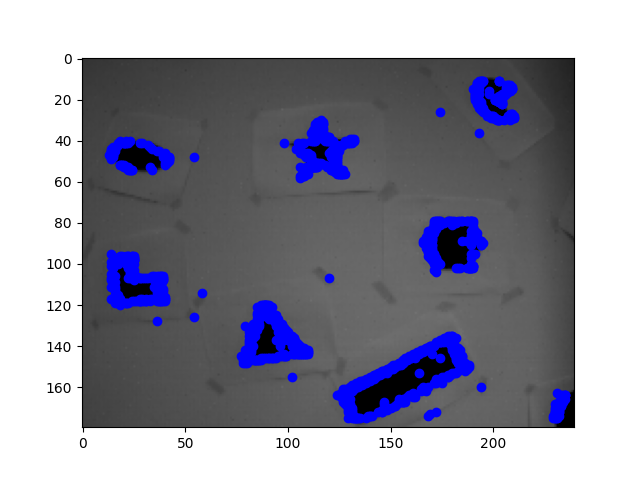
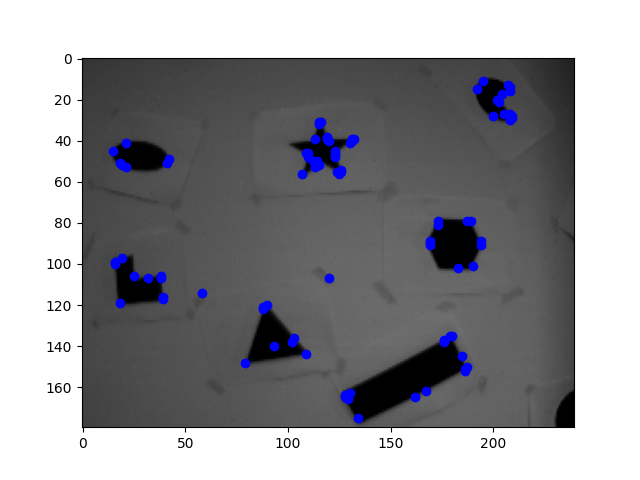
tracker updated

diff --git a/arc_tracker.py b/arc_tracker.py
@@ -1,141 +1,174 @@
 import numpy as np
+class Vertex:
+    def __init__(self, event):
+        self.event = event
+        self.depth = 0
+        self.treeid = None
+        self.parent = None
+        self.is_active = True
+        self.children = []
 
+    def deactivate(self):
+        self.is_active = False
+    
+
+class Tree:
+    def __init__(self,id,root):
+        self.id = id
+        self.max_depth = 0
+        self.root = root
+
+    def add_child(self, child,p):
+        child.parent = p
+        child.depth = p.depth + 1
+        if child.depth > self.max_depth:
+            self.max_depth = child.depth
+        child.treeid = self.id
+        p.children.append(child)
+        return
+    
 class EventTracker:
     def __init__(self, dconn=5, delta_t_max=0.1, rho_thresh=5):
         self.dconn = dconn
         self.delta_t_max = delta_t_max
         self.rho_thresh = rho_thresh
+        self.treenum = 0
         self.graph = {}  # Initialize the graph as an empty dictionary
+        self.vneigh = []
 
-    def add_corner_event(self, event):
-        t, x, y = event
-
+    def add_corner_event(self,event):
+        v = Vertex(event)
         # Find neighboring vertices within dconn pixels and delta_t_max time difference
-        Vneigh = self.find_neighboring_vertices(event)
+        self.vneigh = []
+        self.find_neighboring_vertices(v)
+        self.deactivate_vertices()
 
         # Split vertices into leaf and non-leaf nodes
-        Vleaf, Vnotleaf = self.split_leaf_and_notleaf_vertices(Vneigh)
+        Vleaf, Vnotleaf = self.split_leaf_and_notleaf_vertices()
+        print(Vleaf)
+        print(Vnotleaf)
 
-        if Vleaf:
+        if len(Vleaf):
             # Find the closest and newest vertex in Vleaf
-            vparent = self.find_closest_and_newest_vertex(Vleaf)
-        elif Vnotleaf:
+            vparent = self.find_closest_and_newest_vertex(Vleaf,v)
+        elif len(Vnotleaf):
             # Find the closest and newest vertex in Vnotleaf
-            vparent = self.find_closest_and_newest_vertex(Vnotleaf)
+            vparent = self.find_closest_and_newest_vertex(Vnotleaf,v)
         else:
             # No active vertices in the neighborhood, create a new tree
-            self.graph[t] = [event]
+            tree = Tree(self.treenum,v)
+            v.treeid = self.treenum
+            self.treenum += 1
+            self.graph[tree.id] = tree
             return
 
         # Establish data association and grow the tree
-        self.establish_data_association(vparent, event)
+        self.establish_data_association(vparent, v)
 
-    def find_neighboring_vertices(self, event):
-        t, x, y = event
-        Vneigh = []
+    def find_neighboring_vertices(self, new_vertex):
+        # key will be the id of the tree
+        for key,tree in self.graph.items():
+            p = tree.root
+            if (len(p.children) == 0) and self.is_valid_neighboor(p,new_vertex):
+                self.vneigh.append(p)
+            else:
+                self.traverse_and_append_neighboor(p,new_vertex)
+            
+        return
 
-        for v in self.graph.values():
-            for vertex in v:
-                tt, xx, yy = vertex
+    def is_valid_neighboor(self,vertex,new_vertex):
+        tt, xx, yy = vertex.event[0], vertex.event[1], vertex.event[2]
+        t, x, y = new_vertex.event[0], new_vertex.event[1], new_vertex.event[2]
+        if (abs(x - xx) <= self.dconn and 
+            abs(y - yy) <= self.dconn and 
+            abs(t - tt) <= self.delta_t_max):
+            return True
+        return False
+    
+    def traverse_and_append_neighboor(self,root,new_vertex):
+        
+        if(len(root.children)):
+            for child in root.children:
+                self.traverse_and_append_neighboor(child,new_vertex)
                 # Check proximity in space and time
-                if (
-                    abs(x - xx) <= self.dconn
-                    and abs(y - yy) <= self.dconn
-                    and abs(t - tt) <= self.delta_t_max
-                ):
-                    Vneigh.append(vertex)
+                if self.is_valid_neighboor(child,new_vertex):
 
-        return Vneigh
-
-    def split_leaf_and_notleaf_vertices(self, Vneigh):
+                    self.vneigh.append(child)
+            return
+        else:
+            return
+        
+    def split_leaf_and_notleaf_vertices(self):
         Vleaf = []
         Vnotleaf = []
 
-        for vertex in Vneigh:
-            t, x, y = vertex
+        for vertex in self.vneigh:
             if self.is_leaf_vertex(vertex):
                 Vleaf.append(vertex)
             else:
                 Vnotleaf.append(vertex)
 
         return Vleaf, Vnotleaf
-
+    
     def is_leaf_vertex(self, vertex):
-        t, x, y = vertex
-
-        for v in self.graph.values():
-            for v_event in v:
-                tt, xx, yy = v_event
-                # Check if vertex is older than any other vertex in the tree
-                if t > tt:
-                    return False
-
+        if len(vertex.children):
+            return False
         return True
-
-    def find_closest_and_newest_vertex(self, vertices):
+                
+    def find_closest_and_newest_vertex(self, vertices,new_vertex):
         min_distance = float("inf")
+        closest_t = 0
+        new_e = new_vertex.event
         closest_vertex = None
 
         for vertex in vertices:
-            t, x, y = vertex
-            distance = x ** 2 + y ** 2  # Euclidean distance in image plane
-            if distance < min_distance or (distance == min_distance and t > closest_vertex[0]):
+            e = vertex.event
+            distance = (e[1] - new_e[1]) ** 2 + (e[2] - new_e[2]) ** 2
+            if distance < min_distance or ((distance == min_distance) and (e[0] > closest_t)):
+                closest_t = e[0]
                 min_distance = distance
                 closest_vertex = vertex
 
         return closest_vertex
-
-    def establish_data_association(self, vparent, event):
-        t_parent, x_parent, y_parent = vparent
-        t_event, x_event, y_event = event
-
+    
+    def establish_data_association(self, vparent, new_vertex):
         # Find the tree to which vparent belongs
-        parent_tree = None
-        for key, value in self.graph.items():
-            if vparent in value:
-                parent_tree = key
-                break
-
-        # Add the event to the tree
-        if parent_tree is not None:
-            self.graph[parent_tree].append(event)
+        parent_tree = self.graph[vparent.treeid]
+        parent_tree.add_child(new_vertex,vparent)
+        return
+    
+    def deactivate_vertices(self):
+        for vertex in self.vneigh:
+            self.traverse_and_deactivate(vertex)
+        return
+    
+    def traverse_and_deactivate(self,root):
+        # deactivate all the children of vertex in neighborhood if their depth exceed the rho_thresh
+        if(len(root.children)):
+            for child in root.children:
+                self.traverse_and_deactivate(child)
+                if child.is_active:
+                    curr_tree = self.graph[child.treeid]
+                    if child.depth < (curr_tree.max_depth - self.rho_thresh):
+                        child.deactivate()
+            return
         else:
-            self.graph[t_event] = [event]
+            return
 
-    def deactivate_vertices(self, tree):
-        max_depth = self.compute_max_depth(tree)
 
-        for vertex in self.graph[tree]:
-            t, x, y = vertex
-            depth = self.compute_depth(tree, vertex)
-            if max_depth - depth > self.rho_thresh:
-                self.graph[tree].remove(vertex)
 
-    def compute_max_depth(self, tree):
-        max_depth = 0
-        for vertex in self.graph[tree]:
-            depth = self.compute_depth(tree, vertex)
-            if depth > max_depth:
-                max_depth = depth
-        return max_depth
-
-    def compute_depth(self, tree, vertex):
-        t, x, y = vertex
-        depth = 0
-        for v in self.graph[tree]:
-            tt, xx, yy = v
-            if tt < t and abs(x - xx) <= self.dconn and abs(y - yy) <= self.dconn:
-                depth += 1
-        return depth
 
 # Example usage:
-tracker = EventTracker()
-event1 = (0.1, 10, 20)
-event2 = (0.2, 12, 22)
-event3 = (0.3, 8, 18)
+if __name__ == '__main__':
+    tracker = EventTracker()
+    event1 = np.array([0.1, 10, 20,1])
+    event2 = np.array([0.2, 12, 22,0])
+    event3 = np.array([0.3, 8, 18,1])
+    event4 = np.array([0.6, 20, 5,1])
 
-tracker.add_corner_event(event1)
-tracker.add_corner_event(event2)
-tracker.add_corner_event(event3)
+    tracker.add_corner_event(event1)
+    tracker.add_corner_event(event2)
+    tracker.add_corner_event(event3)
+    tracker.add_corner_event(event4)
+    print(tracker.graph)
 
-print(tracker.graph)

diff --git a/arc_detector.py b/arc_detector.py
@@ -48,7 +48,7 @@ class ArcDetector:
         if(ex < self.border_lim or ex >= (self.img.shape[1] - self.border_lim) or 
            ey < self.border_lim or ey >= (self.img.shape[0] - self.border_lim)):
             return False
-
+        
         arc_right_idx = np.argmax(self.sae[pol,ex + self.small_circle[:,0],ey + self.small_circle[:,1]])
         segment_new_min_t = self.sae[pol,ex + self.small_circle[arc_right_idx,0],ey + self.small_circle[arc_right_idx,1]]
 
@@ -107,9 +107,9 @@ class ArcDetector:
                 if(arc_left_value < arc_left_min_t):
                     arc_left_min_t = arc_left_value
             iter += 1
-        if not (seg_size <= self.max_Sradius or 
-            (seg_size >= (self.Smallcirlce_size - self.max_Sradius)) and
-            (seg_size <= (self.Smallcirlce_size - self.min_Sradius))):
+        if not (((seg_size <= self.max_Sradius) and (seg_size >= self.min_Sradius) )or 
+            (((self.Smallcirlce_size - seg_size) >= self.min_Sradius) and
+            ((self.Smallcirlce_size - seg_size) <= self.max_Sradius) )):
             return False
         
         # Expand large circle
@@ -173,9 +173,13 @@ class ArcDetector:
                     arc_left_min_t = arc_left_value
             iter += 1
 
-        if not (seg_size <= self.max_Lradius or 
-            (seg_size >= (self.Largecirlce_size - self.max_Lradius)) and
-            (seg_size <= (self.Largecirlce_size - self.min_Lradius))):
+        if not (((seg_size <= self.max_Lradius) and (seg_size >= self.min_Lradius) )or 
+            (((self.Largecirlce_size - seg_size) >= self.min_Lradius) and
+            ((self.Largecirlce_size - seg_size) <= self.max_Lradius) )):
             return False
         
         return True
+    
+    def update(self,event):
+        et, ex, ey,pol = event[0],int(event[1]), int(event[2]),int(event[3])
+        self.sae_lastest[pol,ex,ey] = et

diff --git a/read_event.py b/read_event.py
@@ -4,7 +4,7 @@ import arc_detector
 import cv2 as cv
 import matplotlib.pyplot as plt
 
-def load_event_file(file_path, n_event=600000, expected_num_event=600000):
+def load_event_file(file_path, n_event=1000000, expected_num_event=1000000):
     event_vec = []
 
     try:
@@ -100,18 +100,22 @@ if __name__ == '__main__':
     corner_index = []
     for i in range(len(event_vec)):
         corner_index.append(detector.detect_corner(event_vec[i,:]))
+        detector.update(event_vec[i,:])
+
     corner_index = np.array(corner_index,dtype=np.bool_)
     # print(corner_index)
     # print(corner_index.shape)
 
     corners = event_vec[corner_index,:]
-    img = img_vec[60]
-    time = float(time_stamp_vec[60])
-    center = time
-    points_in_range = corners[(corners[:,0] > center - 0.01) & (corners[:,0] < center + 0.01)]
+    for i in range(len(img_vec)):
+        img = img_vec[i]
+        time = float(time_stamp_vec[i])
+        center = time
+        points_in_range = corners[np.logical_and((corners[:,0] > (center - 0.003)), (corners[:,0] < (center + 0.003)))]
+        plot_event_on_img(points_in_range,img,time)
+
     # print(corners)
     # print(corners.shape)
     print(time)
     print(points_in_range.shape)
-    plot_event_on_img(points_in_range,img,time)
 
